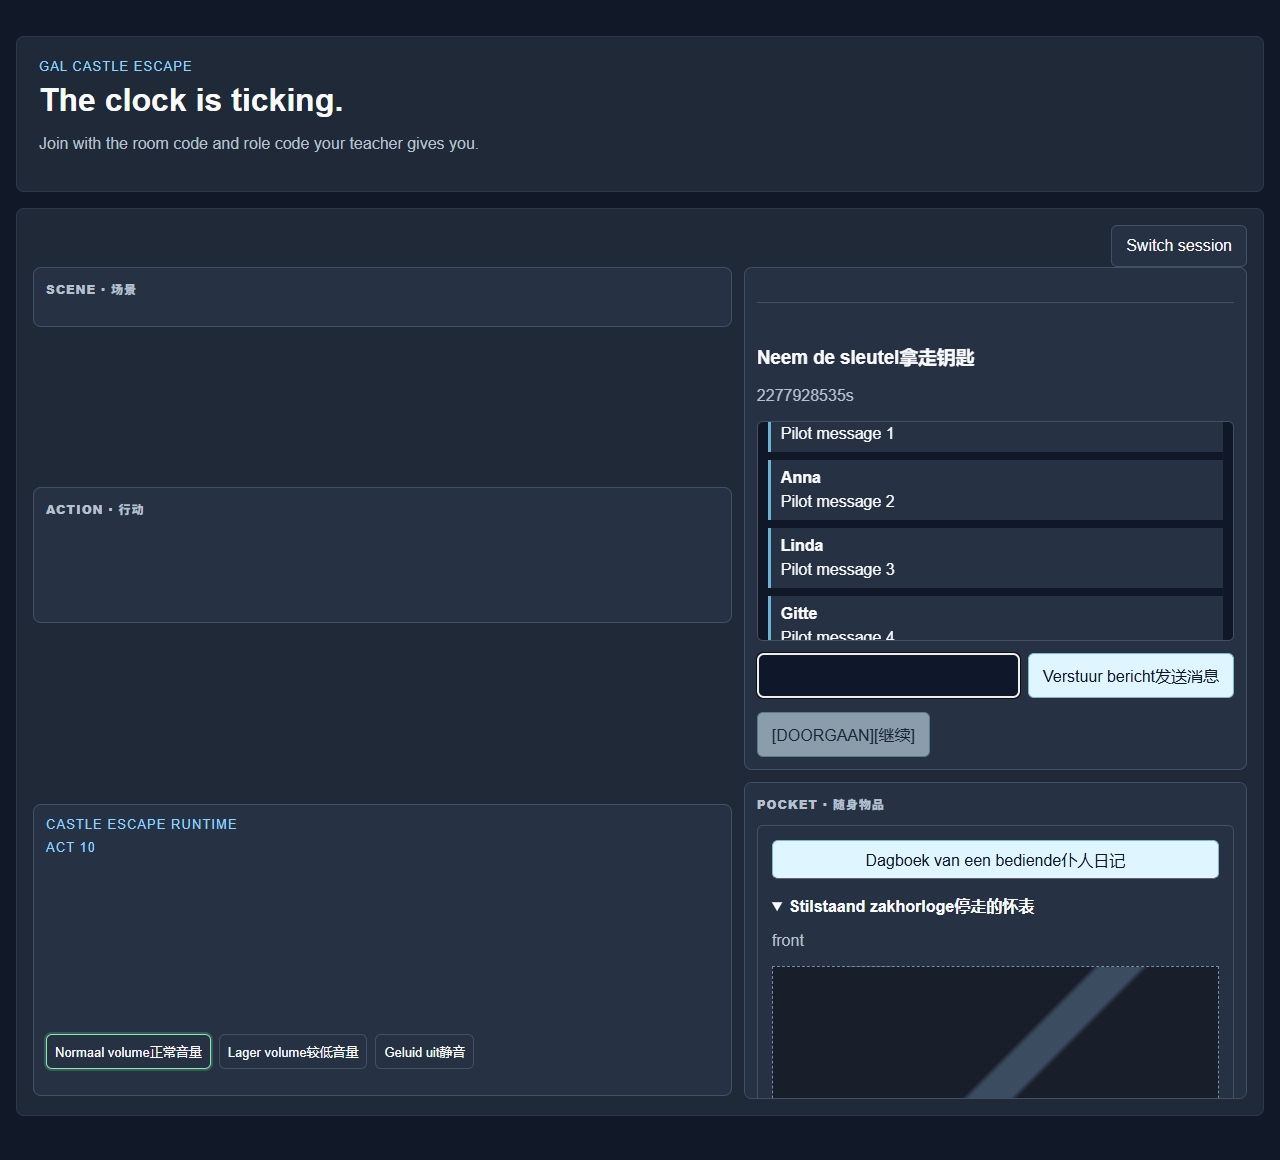
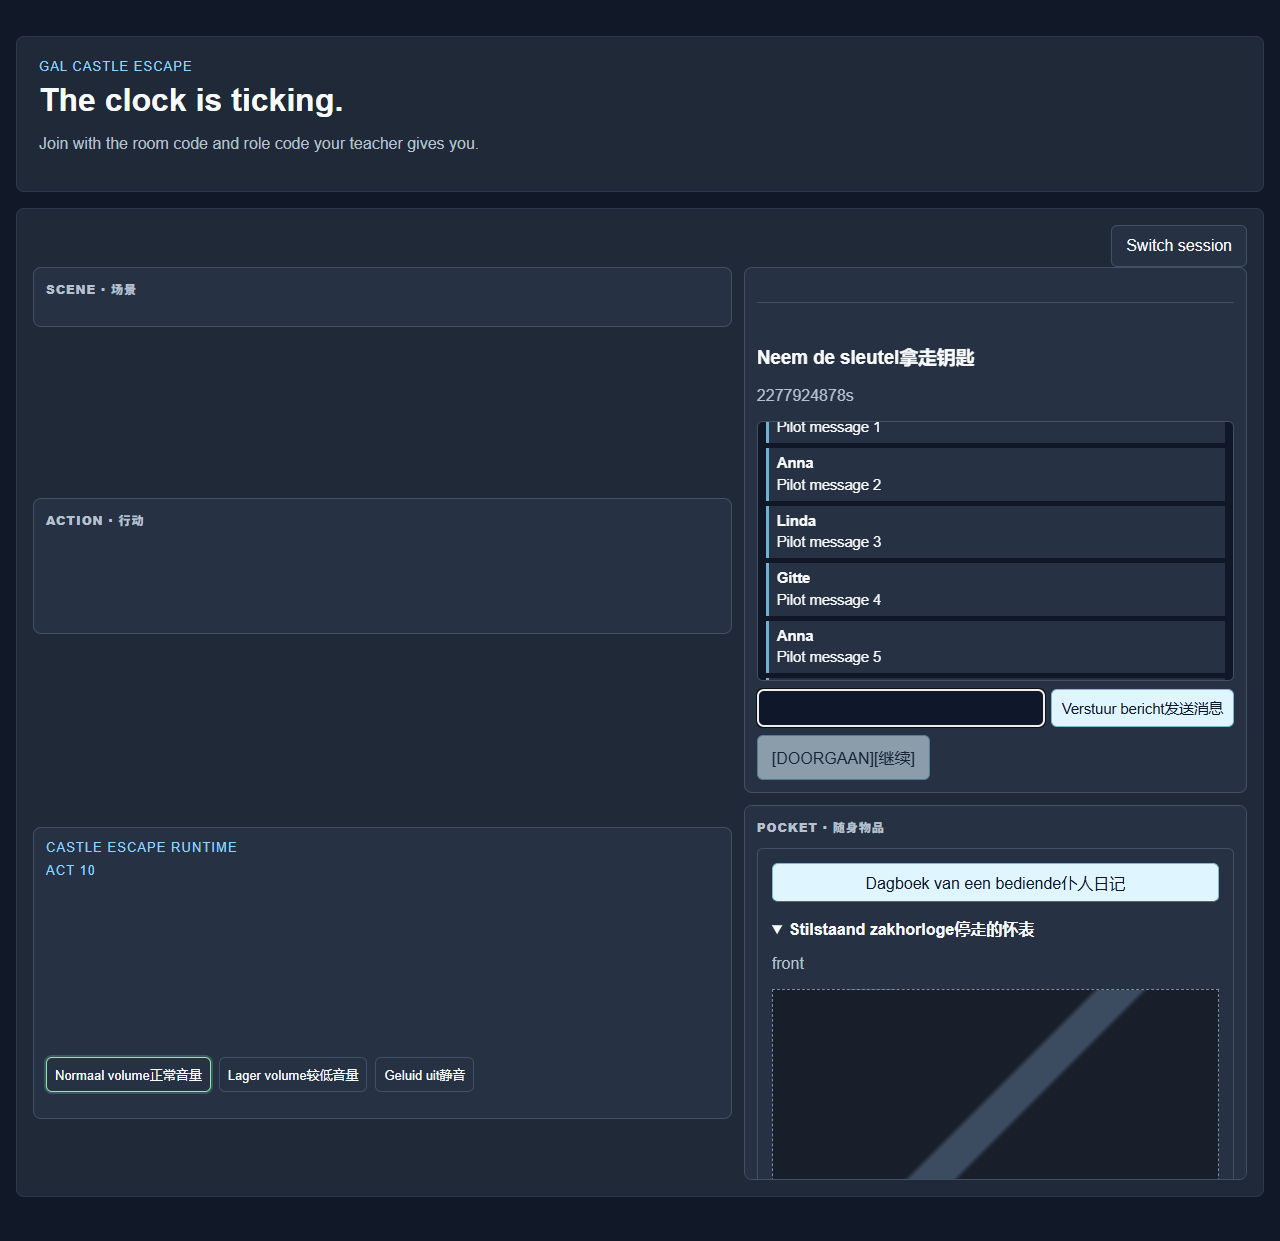
CD: polish V4 discussion and Pocket density

diff --git a/src/styles/app.css b/src/styles/app.css
@@ -18,6 +18,7 @@ body{margin:0;font-family:Arial,sans-serif;background:var(--bg);color:var(--text
 .shell.wide{max-width:1040px}
 .v4-player-shell{max-width:1320px;margin-inline:auto}.v4-runtime-grid{display:grid;grid-template-columns:minmax(0,1.35fr) minmax(360px,.85fr);grid-template-areas:"scene discussion" "action discussion" "story pocket";gap:14px;align-items:start}.v4-region{min-width:0;min-height:0;border:1px solid var(--line);border-radius:8px;background:var(--panel-soft);padding:14px}.v4-region-title{margin:0 0 10px;color:var(--muted);font-size:12px;font-weight:800;text-transform:uppercase;letter-spacing:.08em}.v4-scene-region{grid-area:scene}.v4-action-region{grid-area:action}.v4-discussion-region{grid-area:discussion;max-height:calc(100vh - 150px);overflow:auto}.v4-story-region{grid-area:story;max-height:clamp(280px,44vh,620px);overflow:auto}.v4-pocket-region{grid-area:pocket;max-height:clamp(280px,44vh,620px);overflow:auto}.v4-pocket-media{display:block;width:100%;max-height:280px;object-fit:contain;margin:8px 0}
 .shell:has(#gamePanel:not(.hidden)){max-width:1360px}
+.v4-discussion-region .transcript{gap:5px;margin:8px 0;max-height:260px;padding:8px}.v4-discussion-region .message{padding:6px 8px;font-size:11pt;line-height:1.28}.v4-discussion-region .message p{margin-top:3px}.v4-discussion-region .composer{gap:6px;margin-bottom:8px}.v4-discussion-region .composer input,.v4-discussion-region .composer button{font-size:11pt;padding:8px 10px}.v4-pocket-region{min-height:min(360px,52vh);max-height:clamp(360px,52vh,680px)}.v4-pocket-media{height:auto;max-height:min(300px,36vh);object-fit:contain;object-position:center}
 .panel{background:var(--panel);border:1px solid #2c394d;border-radius:8px;padding:22px;margin-bottom:16px}
 .title-panel{margin-top:8px}
 .eyebrow{margin:0 0 8px;color:var(--accent);font-size:13px;text-transform:uppercase;letter-spacing:.08em}
